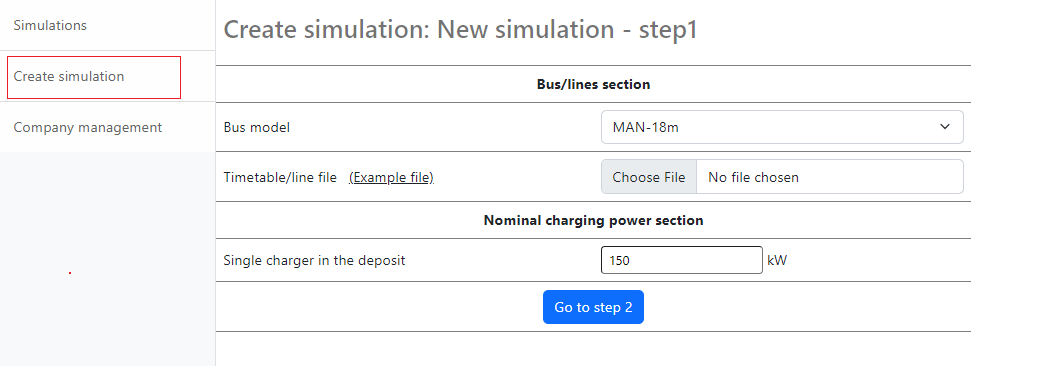
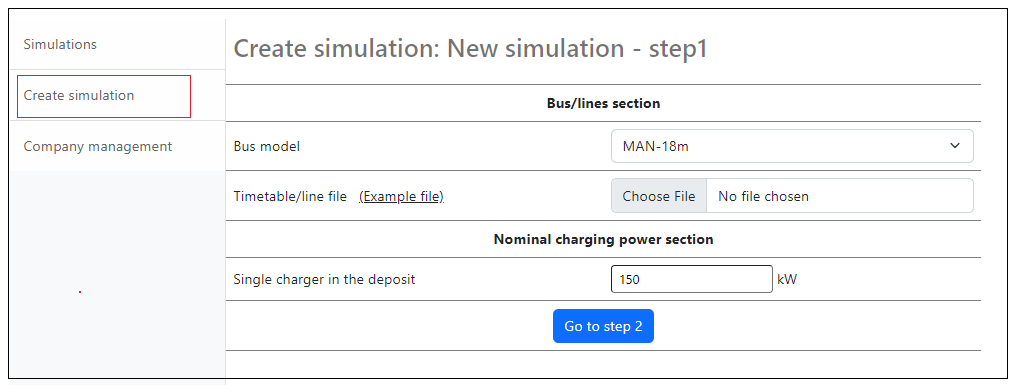
Create simulation text updated

diff --git a/README.md b/README.md
@@ -135,26 +135,43 @@ Make sure to use the correct units for both time and distance.
 </p>
 <p align="center"><em>Figure 6: Description of the public transport network using terminals and distance information </em></p>
 
-
 ## Create a new simulation
+
+Now that you have created a user account and uploaded the company-specific data, you can start creating a new simulation. 
+To start setting up a new simulation, click “Create simulation” in the left menu.
+
+From the web tool's point of view, one simulation corresponds to;
+* One bus line, 
+* Two or more terminal stations, 
+* One electric bus type,
+* One depot, and,
+* A trip timetable for the bus line giving information about the departure and arrival times of the buses at each terminal station.
+
+The simulation setup is divided into two steps.
 
 ### Step1
 
-A new simulation can be created by clicking “Create simulation” in the left menu.  You must choose one of the bus models you already created from the drop-down list, as shown in the following picture. Currently, we can only assign one bus type per simulation. 
-Although this simplifies, it does correspond to most real-world cases where, typically, only one type of bus is used to serve a particular line. If you need to simulate several bus lines simultaneously and they use different bus types, 
-we recommend you separate them into different simulations. 
+The first step is to choose the bus model, the timetable, and the charging power. 
+The bus models that you have already created will appear as a drop-down list. Choose the appropriate bus model from the list for your simulation. 
+Currently, we can only assign one bus type per simulation. 
 
-![Step1](https://github.com/supsi-dacd-isaac/pvxte-web/blob/main/docs/img/create-sim-step-1.png)
+<p align="center">
+  <img src="https://github.com/supsi-dacd-isaac/pvxte-web/blob/main/docs/img/create-sim-step-1.png" alt="step 1" width="85%"/>
+</p>
+<p align="center"><em>Figure 7: Setup bus model, timetable, and charging power for a new simulation </em></p>
 
-Next, you  must also provide the schedule of the buses serving the line/ lines that you wish to simulate. To avoid unexpected conflicts, we recommend the users to follow the example file. The accepted timetable is a table format that has the following columns:
+The trip timetable is a CSV file that contains the following columns:
 
-* 	`bus_id`: bus identifier(data type: string)
+* `bus_id`: bus identifier(data type: string)
 * `line_id`: bus line (data type: string)
-*	`starting_city`: departure station (data type: string), it must be one of the terminal stations in the terminals file.
-*	`arrival_city`: destination station (data type: string), it must be one of the terminal stations in the terminals file.
-*	`departure_time`: departure time in minutes after midnight (data type: integer)
-*	`arrival_time`: arrival time in minutes after midnight (data type: integer)
-*	`day_type`: type of day you want to simulate (data type: string). For example, this is useful to simulate weekday and weekend schedules.
+* `starting_city`: departure station (data type: string), it must be one of the terminal stations in the terminals file.
+* `arrival_city`: destination station (data type: string), it must be one of the terminal stations in the terminals file.
+* `departure_time`: departure time in minutes after midnight (data type: integer)
+* `arrival_time`: arrival time in minutes after midnight (data type: integer)
+* `day_type`: type of day you want to simulate (data type: string). For example, this is useful to simulate weekday and weekend schedules.
+
+To avoid unexpected conflicts, we recommend the users to follow the example file.
+As shown in Figure 7, the charging power for the types of charging infrastructure available at the terminals must also be specified.
 
 ### Step2
 
